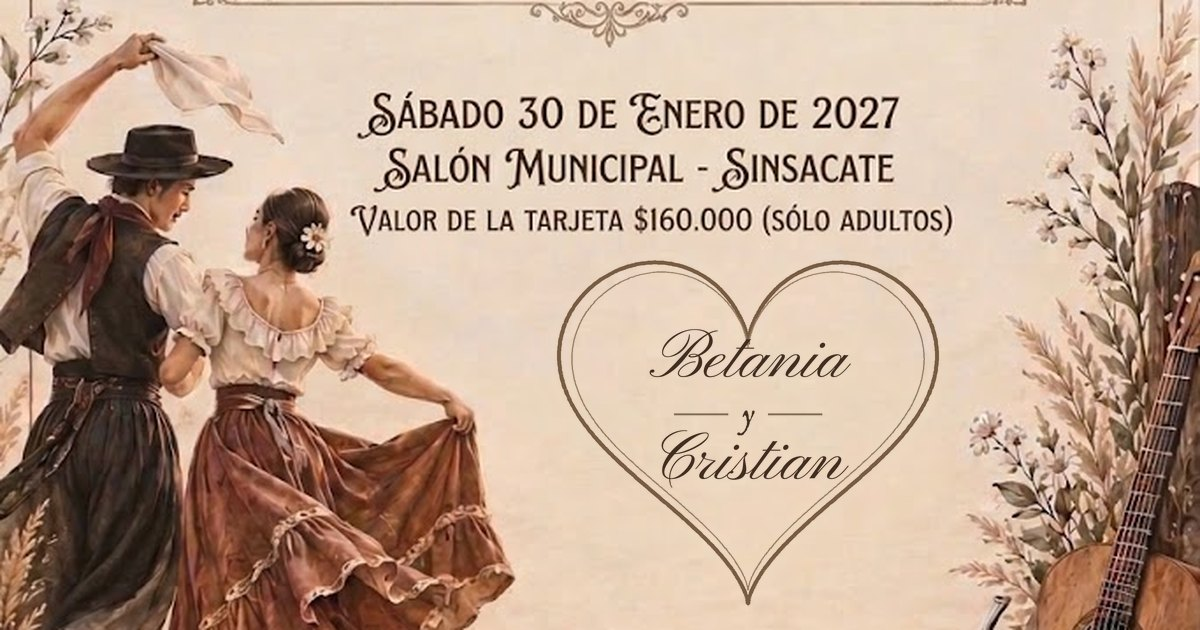
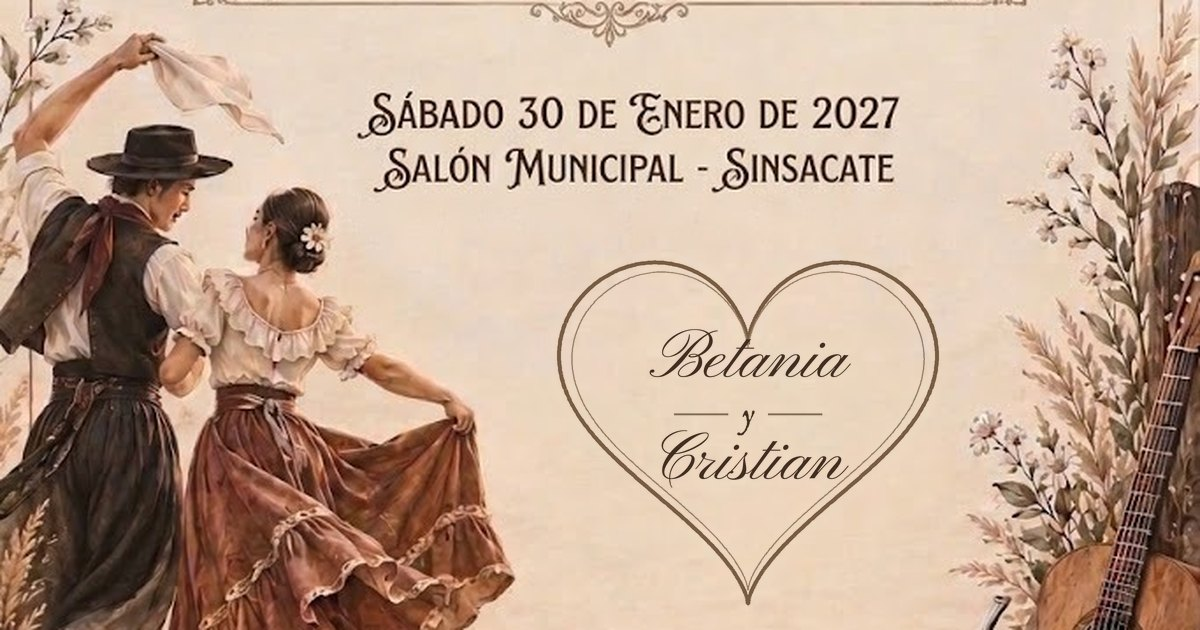
Quitar el valor de la tarjeta de la invitación
Claude-Session: https://claude.ai/code/session_01EFQHX4EGLY9BVDGFtCmJ7M

Changed region(s): [[0.2775, 0.3317, 0.8017, 0.3921]]

diff --git a/index.html b/index.html
@@ -9,7 +9,7 @@
 <meta property="og:url" content="https://betaycris.github.io/">
 <meta property="og:title" content="¡Betania y Cristian se casan! 💍">
 <meta property="og:description" content="Sábado 30 de enero de 2027 · Salón Municipal, Sinsacate. Mirá la cuenta regresiva para el gran día.">
-<meta property="og:image" content="https://betaycris.github.io/preview.jpg?v=4">
+<meta property="og:image" content="https://betaycris.github.io/preview.jpg?v=5">
 <meta property="og:image:width" content="1200">
 <meta property="og:image:height" content="630">
 <meta property="og:locale" content="es_AR">
@@ -168,7 +168,7 @@
 
 <div class="wrap">
   <div class="invite" aria-label="Invitación de casamiento con cuenta regresiva: sábado 30 de enero de 2027, Salón Municipal de Sinsacate">
-    <img src="invitacion.jpg" alt="">
+    <img src="invitacion.jpg?v=2" alt="">
     <div class="tiles t1"><span class="d" id="d0">0</span><span class="d" id="d1">0</span><span class="d" id="d2">0</span></div>
     <div class="tiles t2"><span class="d" id="h0">0</span><span class="d" id="h1">0</span></div>
     <div class="tiles t3"><span class="d" id="m0">0</span><span class="d" id="m1">0</span></div>
